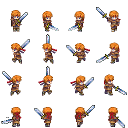
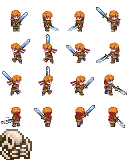
Major refactor of animation sequence in ENtity and support for animated dead sprites

diff --git a/html5Game/js/EntityManager.js b/html5Game/js/EntityManager.js
@@ -7,6 +7,7 @@ function EntityManager() {
 
 function Entity(type){
 	this.entityType = type;
+	
 }
 
  /**
@@ -219,6 +220,7 @@ function renderable(entity) {
 	entity.currentSequence = null;
 	entity.currentSequenceStep = 0;
 	entity.currentSequenceFrame = 0;
+	entity.drawDeadSprite = drawDeadSprite;
 }
 
 /**
@@ -232,39 +234,42 @@ function setupSpriteManager(spriteManagerConfig, animationSequences) {
 }
 
 /**
- * Technically doesn't render but, returns the correct image for rendering, controls animation output.
+ * Renders the Dead Entitys sprite,or sequence from the spriteManager or spriteImg if no 'DEAD'
+ * sprite is defined in the spriteManager. 
+ */
+function drawDeadSprite(context,x,y, entity) {
+	if(entity.spriteManager.getSequenceSprite("DEAD",0) !== null) {
+		if(entity.currentSequence != "DEAD"){
+			entity.currentSequence = "DEAD";
+			entity.currentSequenceStep = 0;
+			entity.currentSequenceFrame = 0;
+		}
+		var deadSpriteData = entity.spriteManager.getSequenceSprite(entity.currentSequence, entity.currentSequenceStep);
+		//call AnimateSprite funciton
+	}
+	if(entity.spriteManager.getNamedTile("DEAD") !== null) {
+		var deadSpriteData = entity.spriteManager.getNamedTile("DEAD");
+		deadSprite = entity.spriteManager.tileOrgPoint(deadSpriteData.col,deadSpriteData.row);
+		context.drawImage(entity.spriteManager.spriteImage, deadSprite.xPos , deadSprite.yPos, entity.spriteManager.tileWidth, entity.spriteManager.tileHeight, x, y, entity.spriteManager.tileWidth, entity.spriteManager.tileHeight);
+	} else {
+		context.drawImage(entity.deadImg, x, y);
+	}	
+};
+
+/**
+ * Renders correct sprite to the games context.
  */
 function renderSprite(context, x,y){
 	if(this.alive === false) {
-		//TODO Want to update this to conditionally render from the sprite sheet also check for animation sequence.
-		//Sudo-code follows.
-		//if(this.spriteManager.getSequence("DEAD"))
-		//else if(this.spriteManager.getTile("DEAD"))
-		context.drawImage(this.deadImg,  x, y);
+		drawDeadSprite(context,x,y,this);
 		return;
 	}
 	
 	if(this.spriteManager != null && this.spriteManager.spriteImage.imageLoaded ) {
 		if(this.currentSequence != null){
-			var spriteId = 0;
-			var spriteData =  this.spriteManager.getSequenceSprite(this.currentSequence, this.currentSequenceStep, this.currentSequenceFrame);
-			var defaultSprite;
-			if(spriteData == null) { //sequence is over, return default.
-				this.currentSequence = null;
-				this.currentSequenceStep = 0;
-				this.currentSequenceFrame = 0;
-				defaultSprite = this.spriteManager.namedTileOrgPoint(spriteId);
-			} else {
-				spriteId = spriteData.sequence[this.currentSequenceStep];
-				if(this.currentSequenceFrame != 0 && (this.currentSequenceFrame%spriteData.sequenceFrameDuration)==0) {
-					this.currentSequenceStep++;
-				}
-				this.currentSequenceFrame++;
-				defaultSprite = this.spriteManager.namedTileOrgPoint(spriteId);
-			}
-			
-			context.drawImage(this.spriteManager.spriteImage, defaultSprite.xPos , defaultSprite.yPos, this.spriteManager.tileWidth, this.spriteManager.tileHeight, x, y, this.spriteManager.tileWidth,this.spriteManager.tileHeight);
-			return;
+			var spriteData =  this.spriteManager.getSequenceSprite(this.currentSequence, this.currentSequenceStep);
+			animate(context, x, y, this, spriteData);
+		return;
 		}else{
 			defaultSprite = this.spriteManager.namedTileOrgPoint(0);
 			context.drawImage(this.spriteManager.spriteImage, defaultSprite.xPos , defaultSprite.yPos, this.spriteManager.tileWidth, this.spriteManager.tileHeight, x, y, this.spriteManager.tileWidth,this.spriteManager.tileHeight);
@@ -274,6 +279,29 @@ function renderSprite(context, x,y){
 	return this.spriteImg;
 }
 
+/**
+ * Keeps track of the animation sequence and renders the sprite to the context.
+ * 
+ */
+function animate(context, x, y, entity, spriteData) {
+	var spriteId = 0;
+	var defaultSprite;
+	if(spriteData == null) { //sequence is over, return default.
+		entity.currentSequence = null;
+		entity.currentSequenceStep = 0;
+		entity.currentSequenceFrame = 0;
+		defaultSprite = entity.spriteManager.namedTileOrgPoint(spriteId);
+	} else {
+		spriteId = spriteData.sequence[entity.currentSequenceStep];
+		if(entity.currentSequenceFrame != 0 && (entity.currentSequenceFrame%spriteData.sequenceFrameDuration)==0) {
+			entity.currentSequenceStep++;
+		}
+		entity.currentSequenceFrame++;
+		defaultSprite = entity.spriteManager.namedTileOrgPoint(spriteId);
+	}
+	
+	context.drawImage(entity.spriteManager.spriteImage, defaultSprite.xPos , defaultSprite.yPos, entity.spriteManager.tileWidth, entity.spriteManager.tileHeight, x, y, entity.spriteManager.tileWidth, entity.spriteManager.tileHeight);
+};
 
 /**
  * Initiallize the map from stored data which should be int he format of {"id":0, "type":0}

diff --git a/html5Game/js-test/SpriteTileManagerTest.js b/html5Game/js-test/SpriteTileManagerTest.js
@@ -116,7 +116,6 @@ SpriteTileManagerTest.prototype.testInitAnimationSeqs = function() {
 }
 
 
-
 SpriteTileManagerTest.prototype.testInitAnimationSeqs_invalidSequence = function() {
 	var player_testManagerConfig = {"tileWidth":32, "tileHeight":32, "src":"../res/hero2.png", "namedTiles":[
 		{"id":0,"name":"FRONT","col":0,"row":0},
@@ -135,6 +134,7 @@ SpriteTileManagerTest.prototype.testInitAnimationSeqs_invalidSequence = function
 		{"id":13,"name":"BACK_2","col":1,"row":3},
 		{"id":14,"name":"BACK_3","col":2,"row":3},
 		{"id":15,"name":"BACK_4","col":3,"row":3},
+		{"id":16,"name":"DEAD","col":0,"row":4},
 	]};
 	var attackAnimation = [{"name":"attack_left",
 		"sequence":[6,5,4,15,6,27,6,0], 

diff --git a/html5Game/js/SpriteTileManager.js b/html5Game/js/SpriteTileManager.js
@@ -65,7 +65,6 @@ SpriteTileManager.prototype.initAnimationSeqs = function(config) {
  * @return img with sprite or null if out of bounds.
  */
 SpriteTileManager.prototype.getSequenceSprite = function(sequenceId, sequenceStep) {
-	//get sequence /check step is < sequence.length , rturn null if > len
 	var aniSeq = this.animationSequences[sequenceId];
 	if(aniSeq == null || sequenceStep >= aniSeq.sequence.length ){
 		return null;

diff --git a/html5Game/js/gameConsoleTest.js b/html5Game/js/gameConsoleTest.js
@@ -224,6 +224,7 @@ function setUpPlayerImg() {
 		{"id":13,"name":"BACK_2","col":1,"row":3},
 		{"id":14,"name":"BACK_3","col":2,"row":3},
 		{"id":15,"name":"BACK_4","col":3,"row":3},
+		{"id":16,"name":"DEAD","col":0,"row":4},
 	]};
 	var attackAnimation = [{"name":"attack_left",
 		"sequence":[6,5,4,5,6,7,6,0], 
